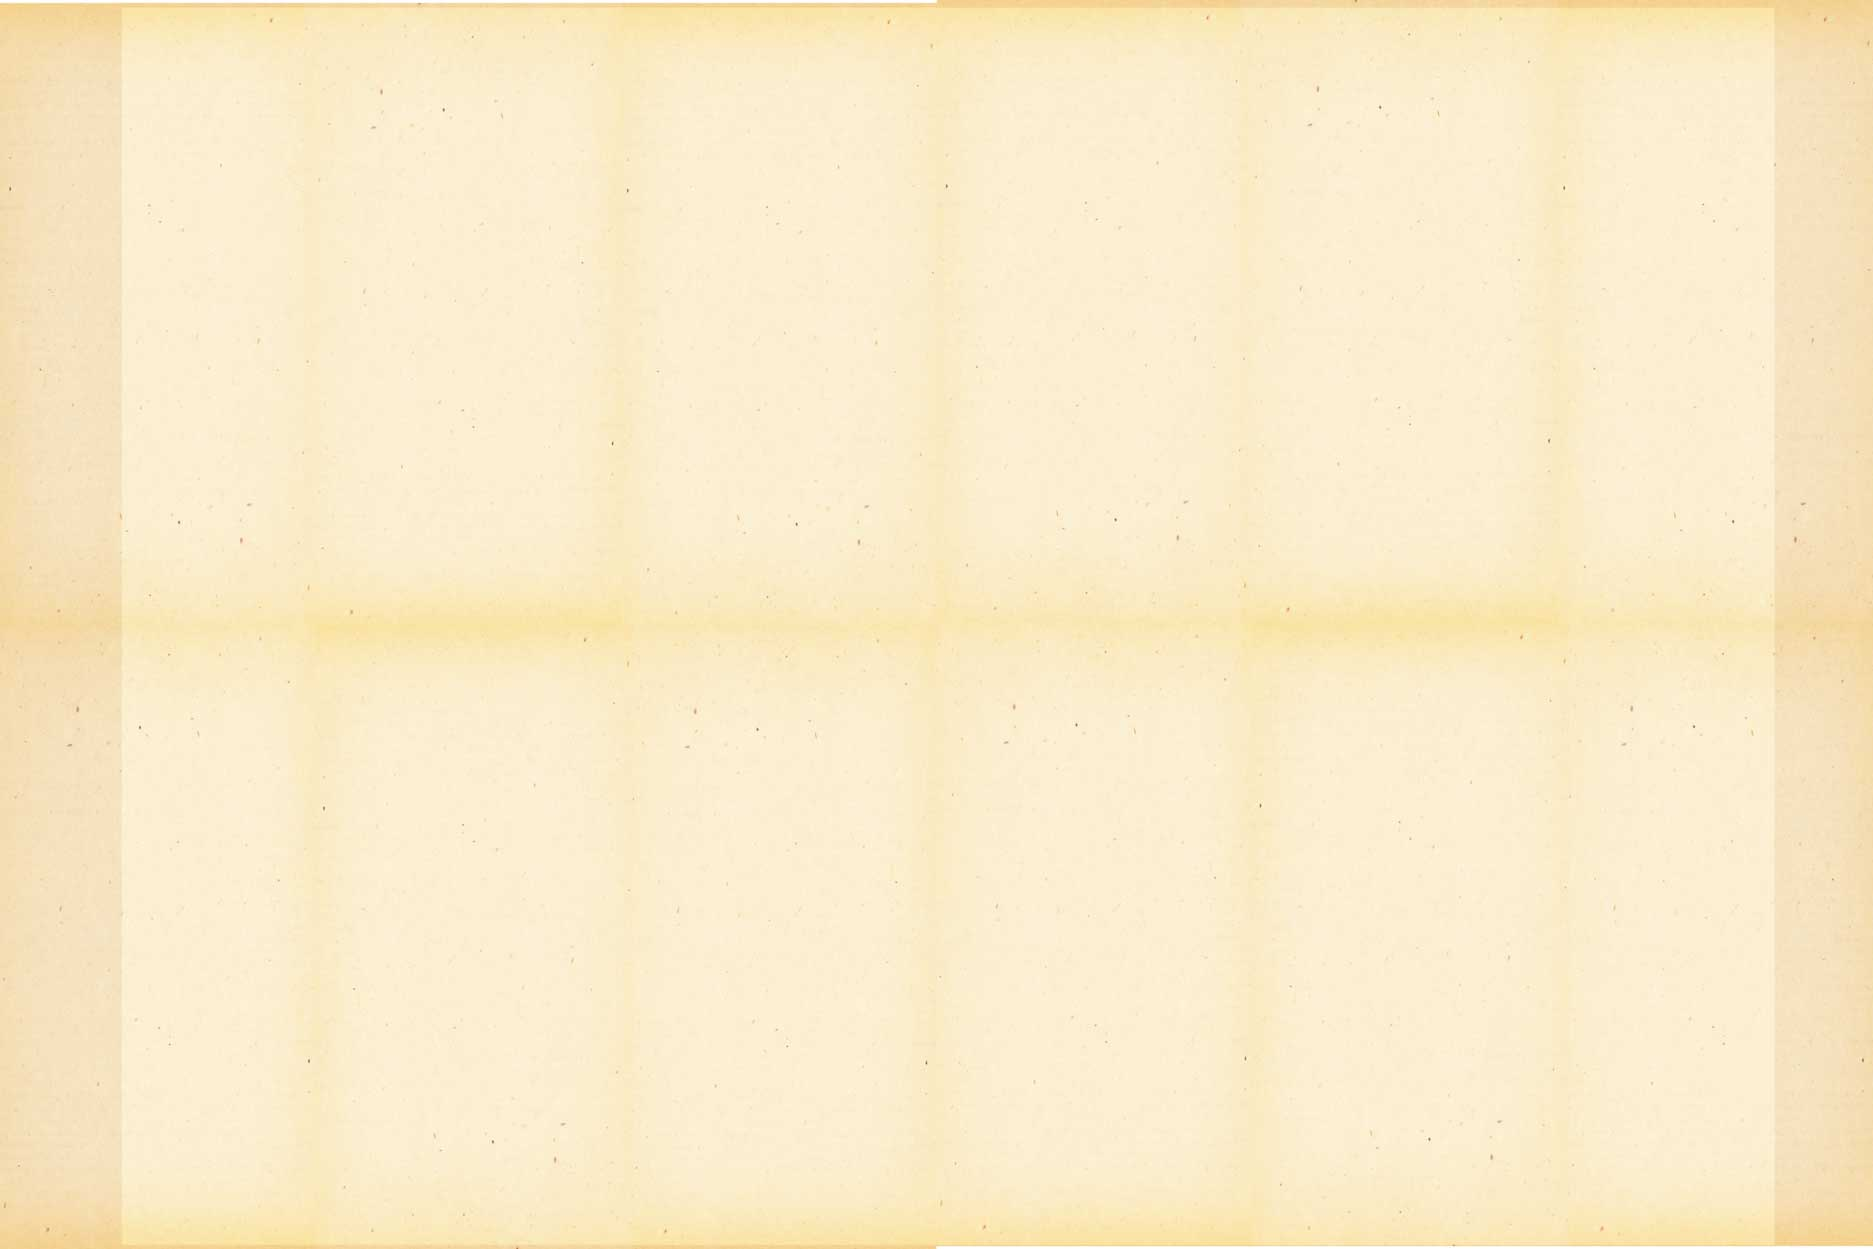
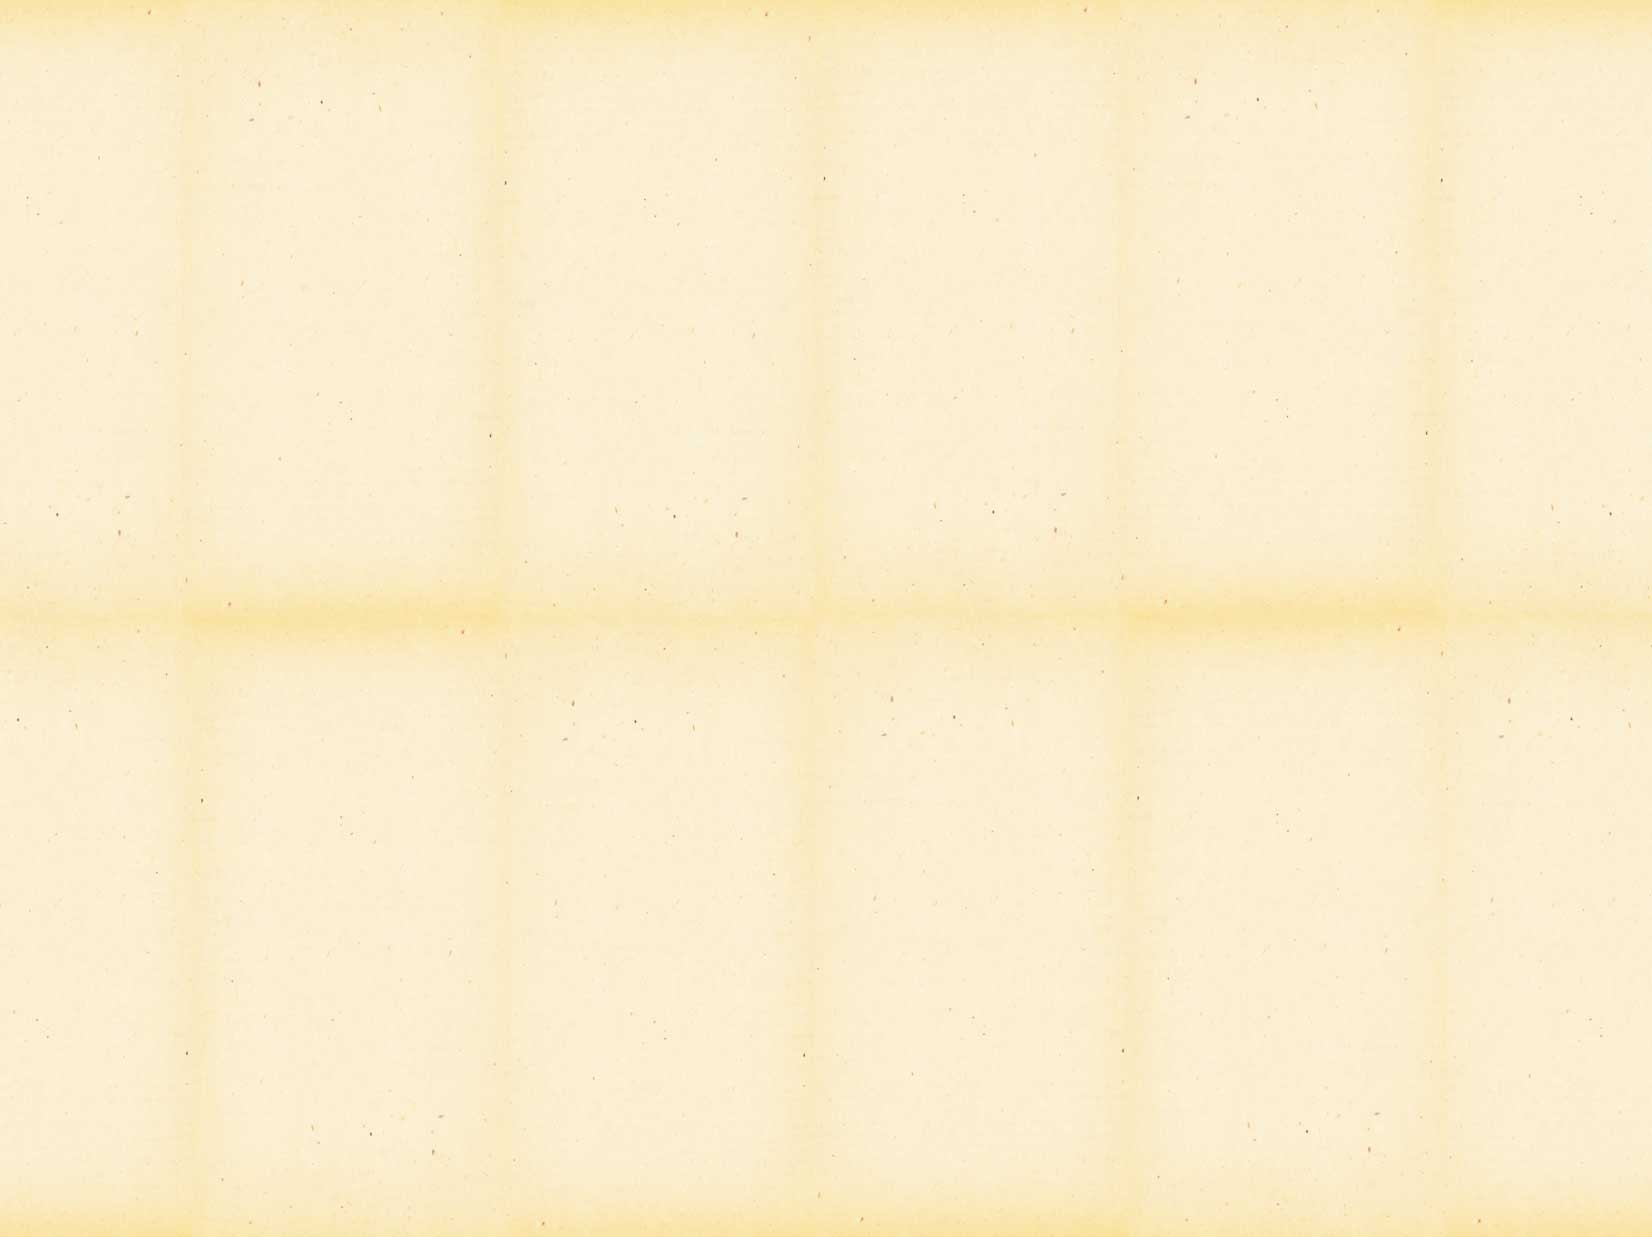
fix(background): put the correct background

diff --git a/src/index.js b/src/index.js
@@ -7,8 +7,8 @@ import {Composition, MovingImage, LinearTrajectory} from './composition';
 
 
 const movingImages = {
-    bleuCielGauche: {zIndex: 8, startX: 338, startY: 343, endX: 200, endY: 300},
-    cercleJauneCentre: {zIndex: 10, startX: 574, startY: 630, endX: 400, endY: 600},
+    bleuCielGauche: {zIndex: 8, startX: 338, startY: 343, endX: -200, endY: -100},
+    cercleJauneCentre: {zIndex: 10, startX: 574, startY: 630, endX: 400, endY: 900},
     cercleNoirHautGauche: {zIndex: 7, startX: 223, startY: 218, endX: 100, endY: 100},
     cercleRougeHauDroite: {zIndex: 7, startX: 988, startY: 208, endX: 400, endY: 600},
     cercleVertGauche: {zIndex: 4, startX: 135, startY: 650, endX: 100, endY: 700},
@@ -21,7 +21,7 @@ const movingImages = {
     fleurHautGauche: {zIndex: 6, startX: 87, startY: 159, endX: 100, endY: 100},
     formeBleuRougeGauche: {zIndex: 3, startX: 83, startY: 186, endX: 100, endY: 100},
     formeEauCentre: {zIndex: 8, startX: 555, startY: 359, endX: 518, endY: 500},
-    formeFleursBas: {zIndex: 2, startX: 268, startY: 766, endX: 600, endY: 600},
+    formeFleursBas: {zIndex: 2, startX: 268, startY: 767, endX: 600, endY: 600},
     formeJauneGauche: {zIndex: 5, startX: 1080, startY: 260, endX: 800, endY: 200},
     formeMarronGauche: {zIndex: 5, startX: 185, startY: 820, endX: 100, endY: 700},
     formeRose: {zIndex: 6, startX: 462, startY: 213, endX: 500, endY: 100},

diff --git a/src/style.css b/src/style.css
@@ -152,7 +152,7 @@ footer div {
     position: relative;
     flex: 1 0 auto;
     z-index: 1;
-    background-image: url('./images/background.png');
+    background-image: url('./images/background.jpg');
     background-size: cover;
     margin-top: 0;
     margin-bottom:0;
@@ -176,7 +176,6 @@ area {
     bottom: 0;
     overflow: hidden;
     z-index: 2;
-    opacity: 0.5;
 }
 
 #artwork > div {
